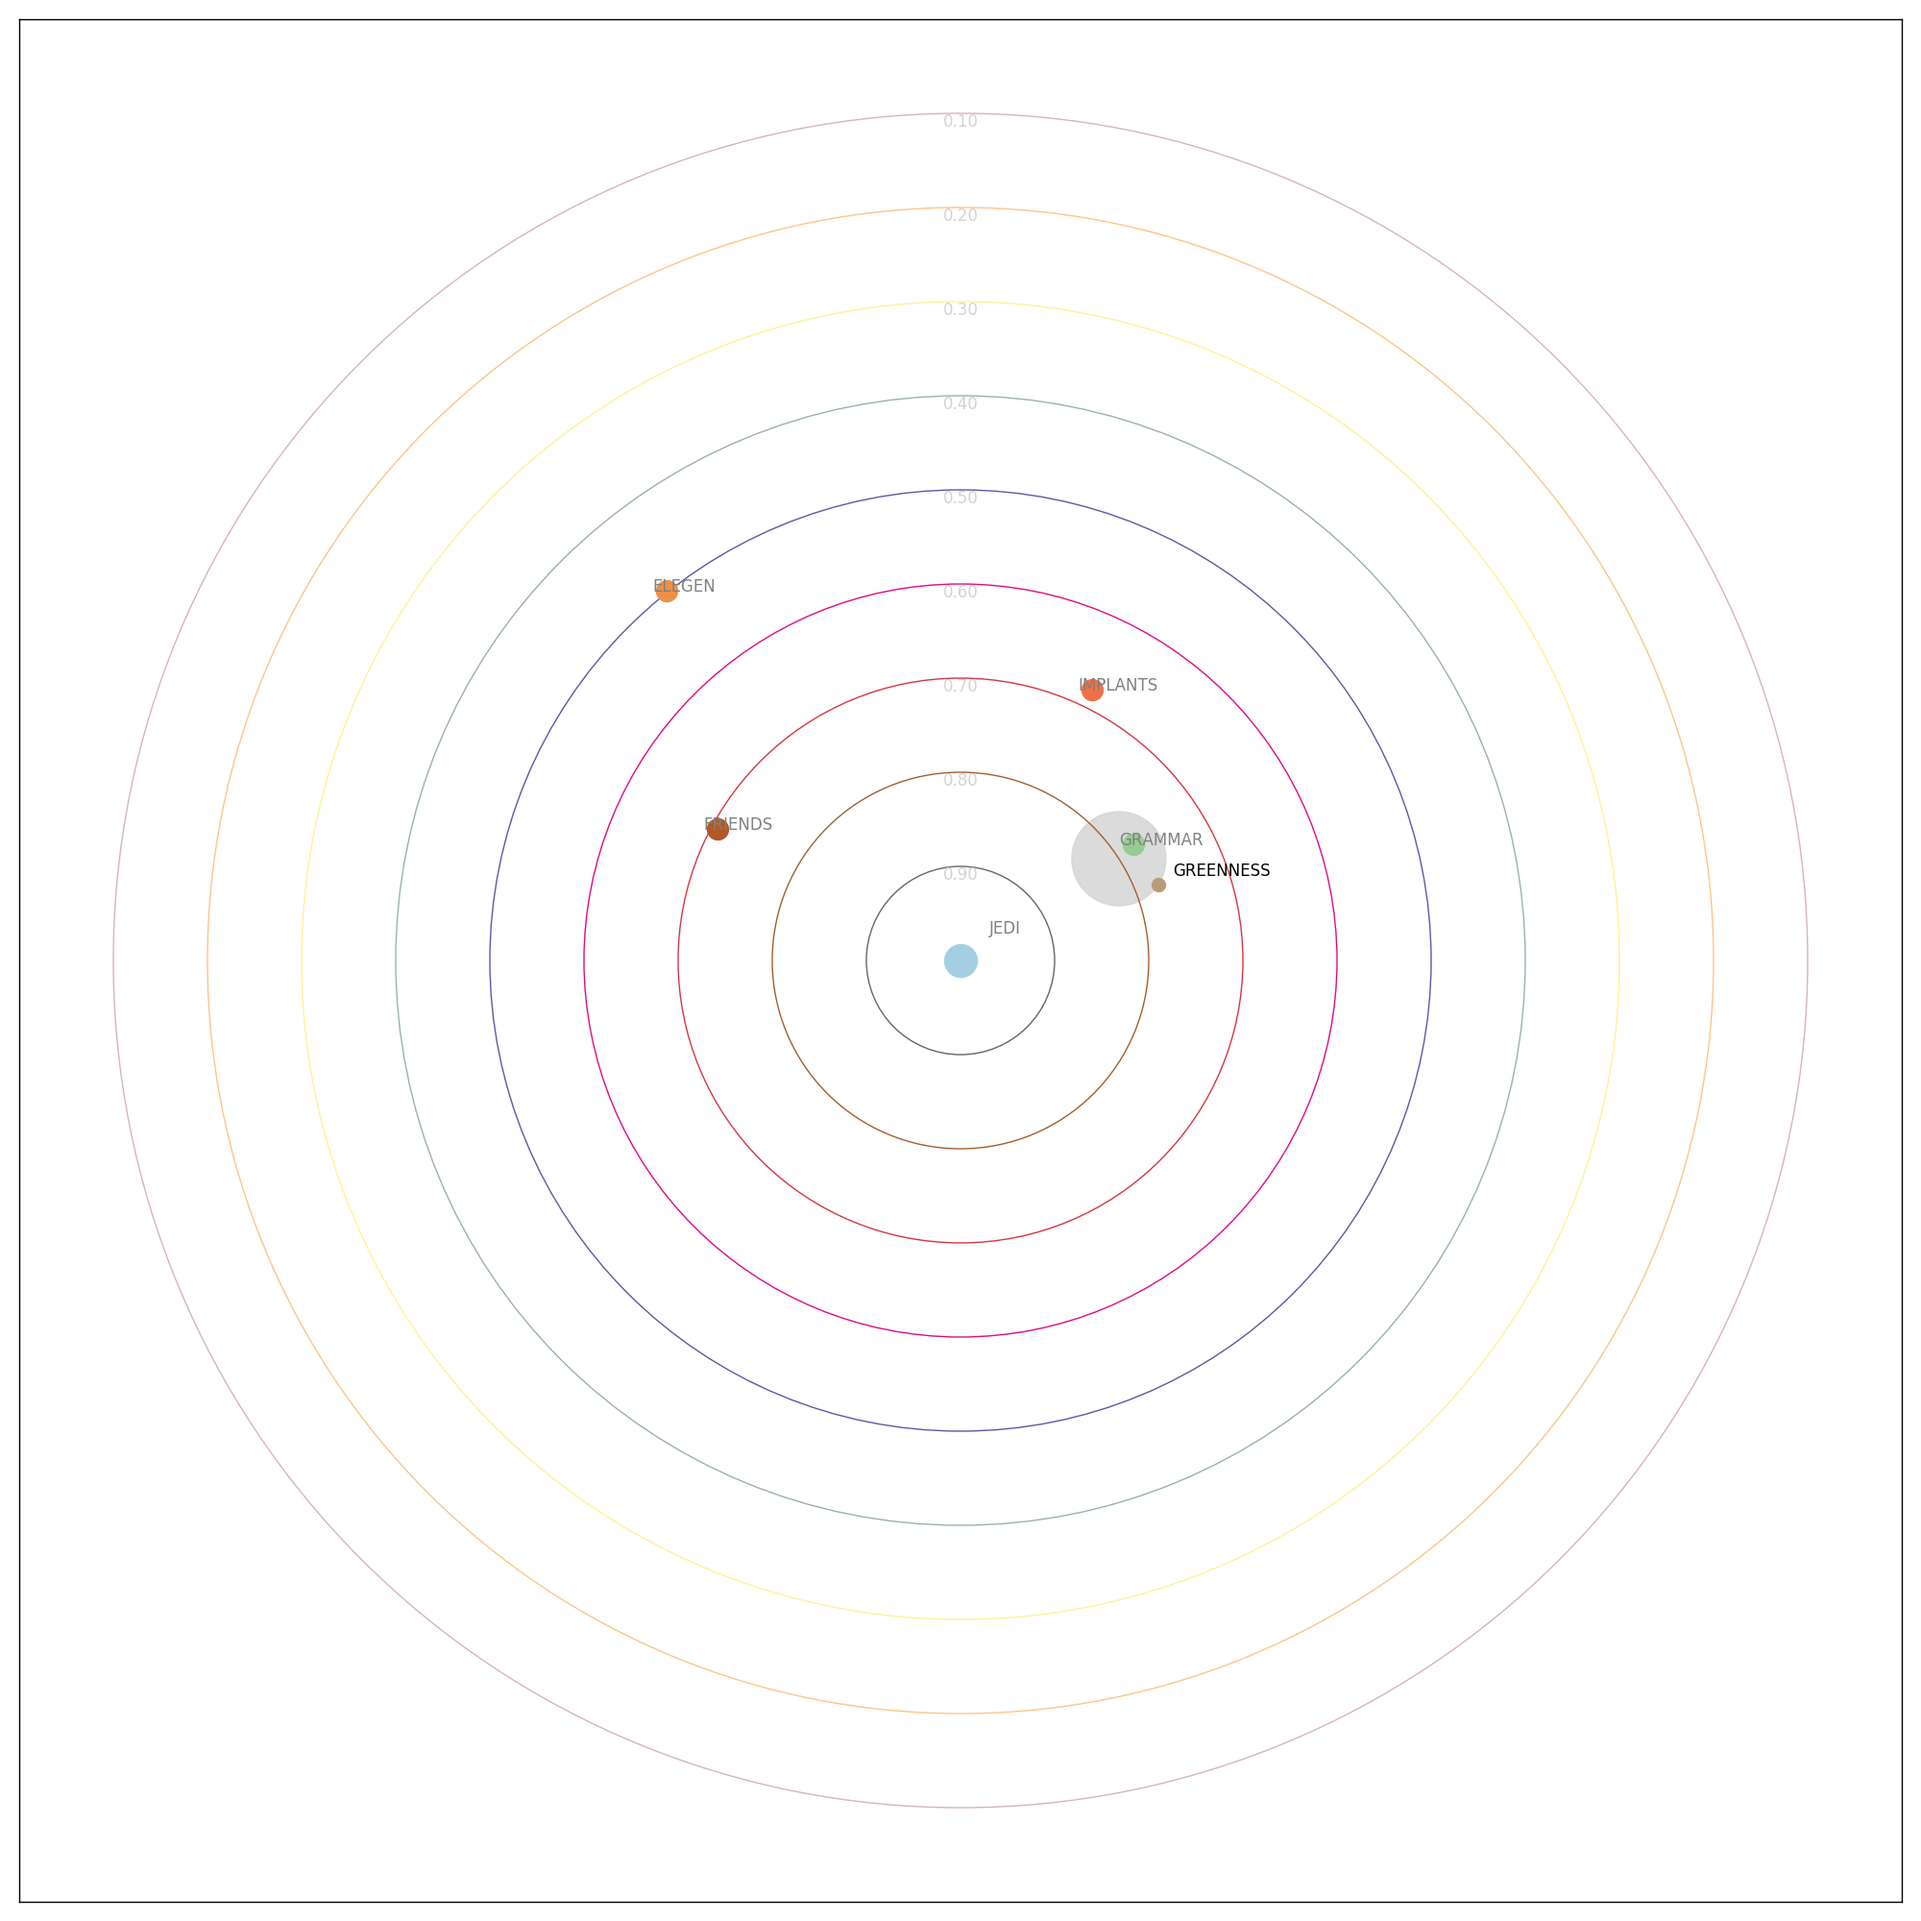
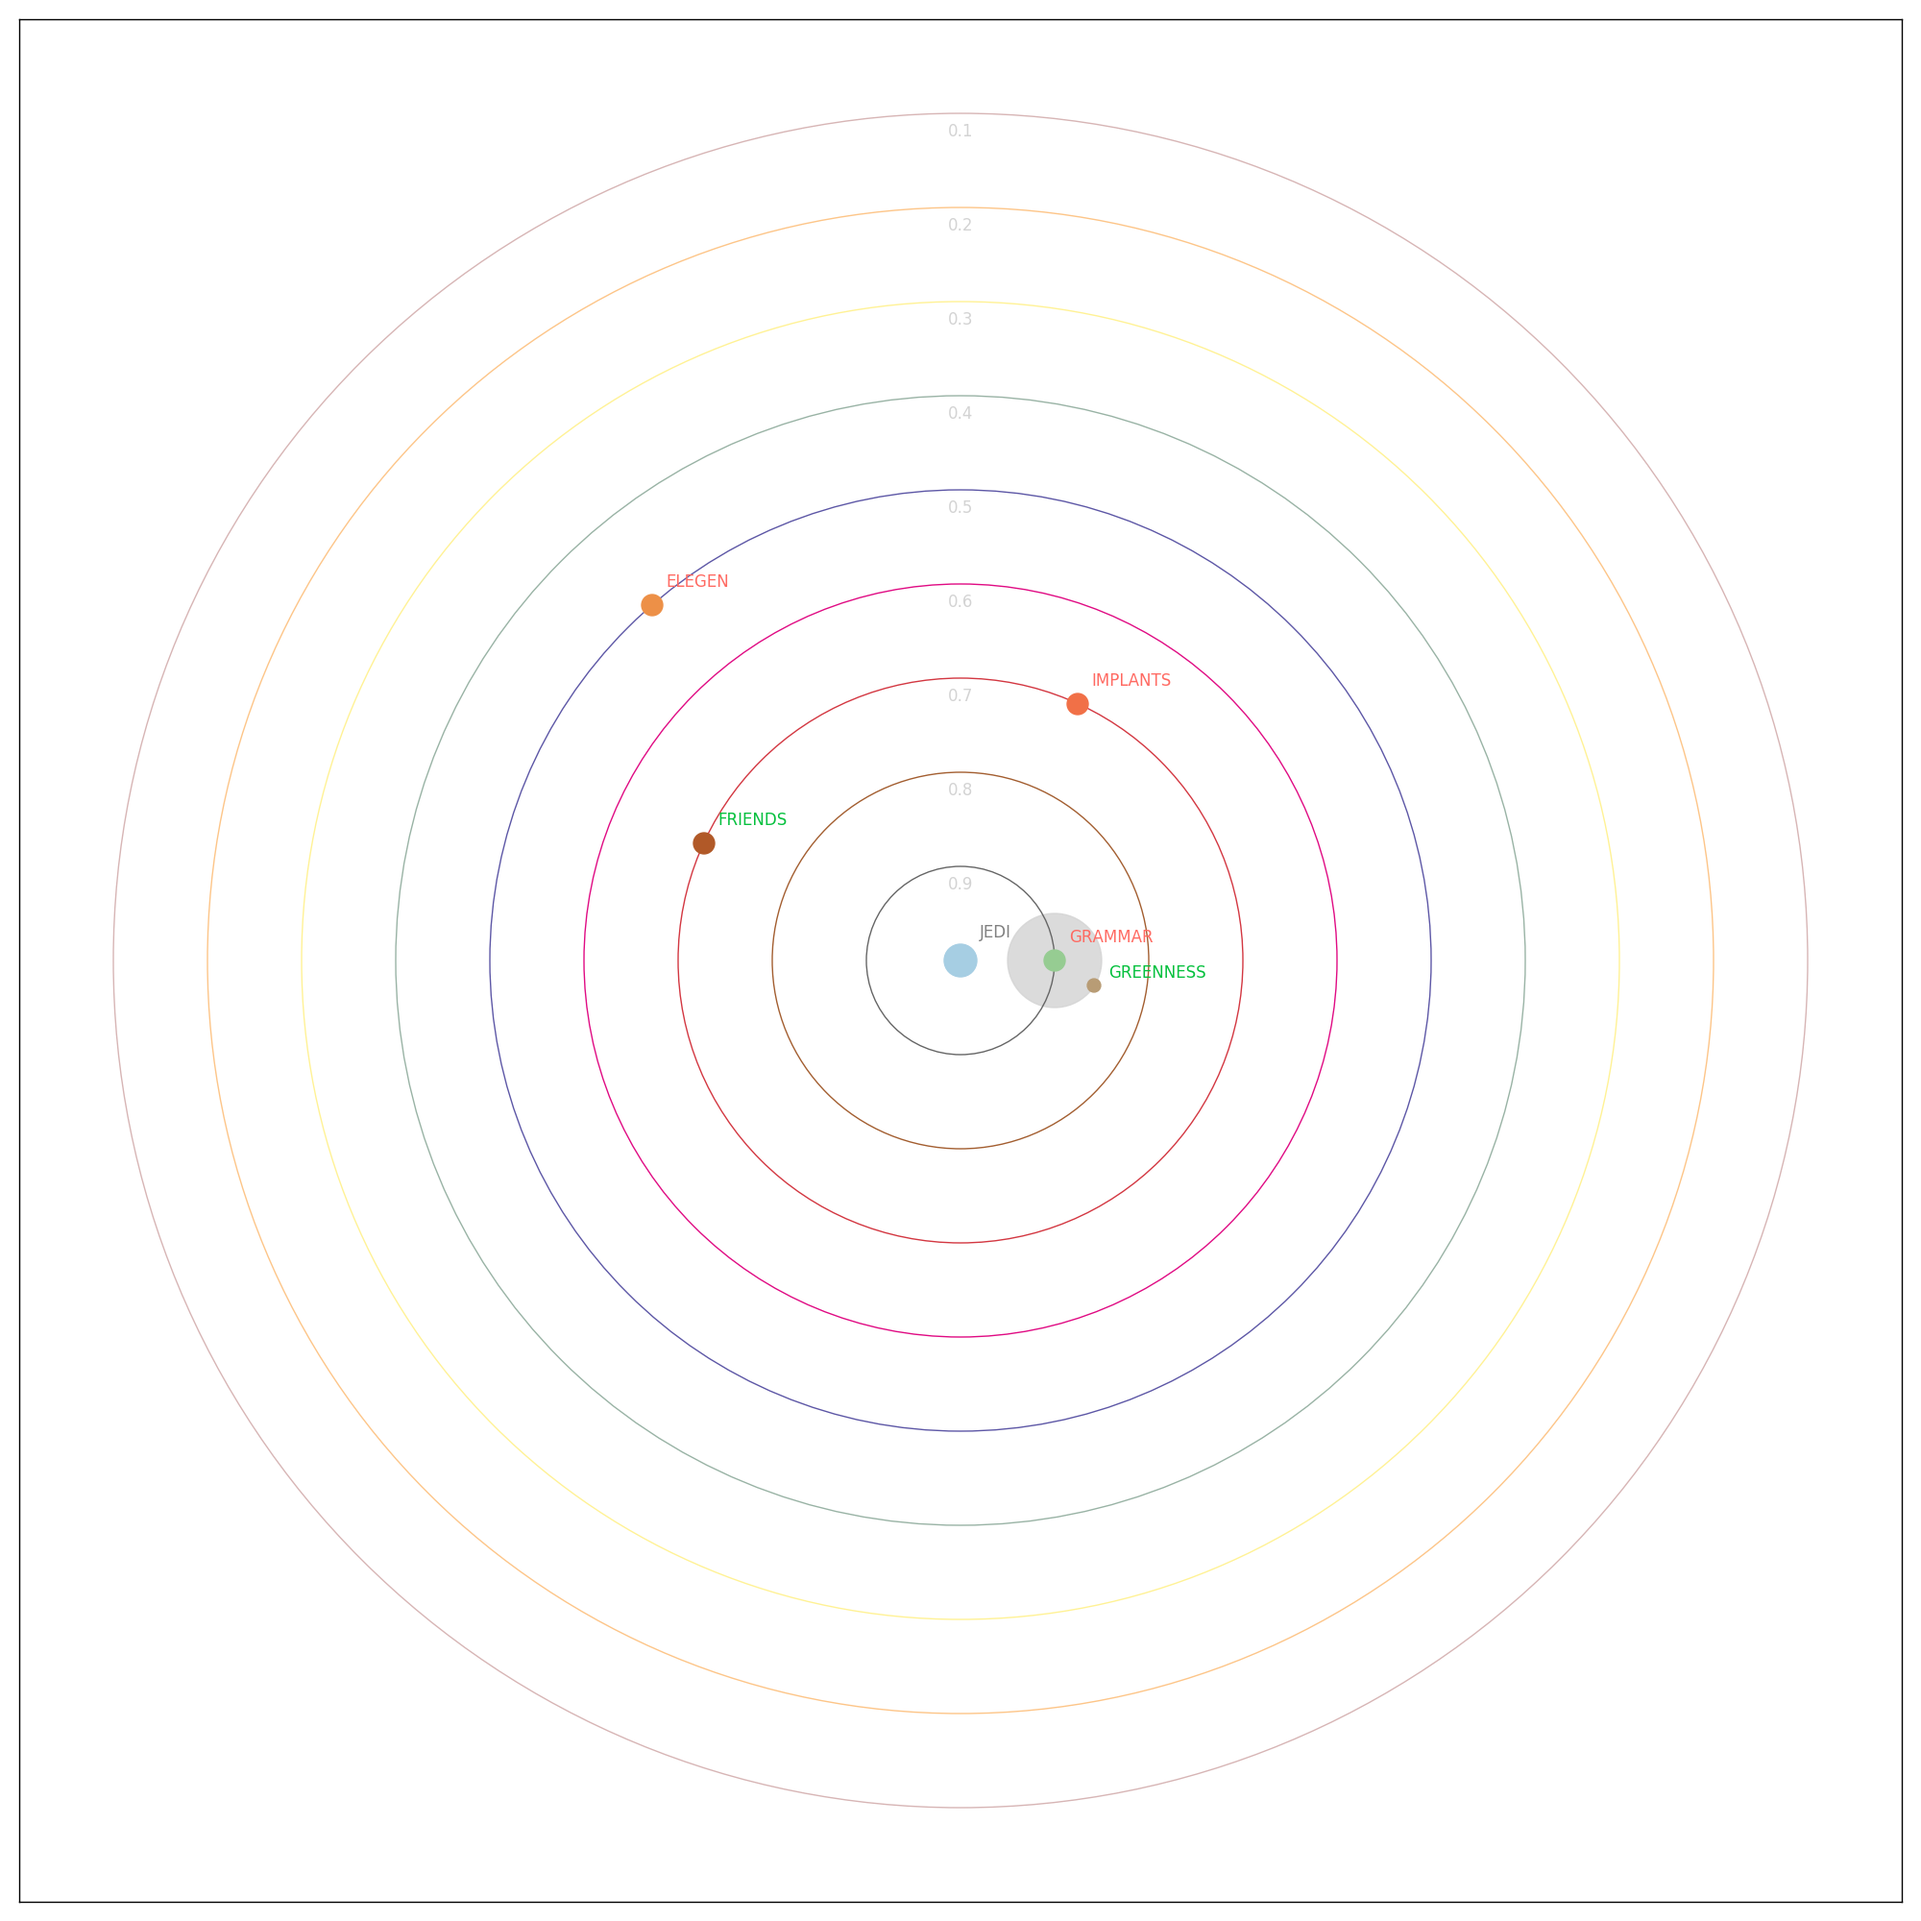
adjusted colors for labels based on correlations

diff --git a/solar_correlation_map/solar_corr.py b/solar_correlation_map/solar_corr.py
@@ -29,12 +29,15 @@ import matplotlib.pyplot as plt
 import numpy as np
 import sys
 import csv
+import warnings
+
+warnings.filterwarnings("ignore", module="matplotlib")
 
 def get_angles(orbit, number_of_datapoints, ax):
     start = (2 * math.pi) / 11 * (orbit - 1)
     stop = start + (math.pi / 2)
     if orbit > 0:
-        ax.text(0, orbit, "{0:.2f}".format(1 - float(orbit) / 10), verticalalignment="top",
+        ax.text(0, orbit - 0.1, "{0:.1f}".format(1 - float(orbit) / 10), verticalalignment="top",
                 horizontalalignment="center", color="lightgray")
     return np.linspace(start, stop, number_of_datapoints, endpoint=True)
 
@@ -57,11 +60,20 @@ def transform_to_correlation_dist(data):
     # we just need the magnitude of the correlation and don't care whether it's positive or not
     return np.abs(y_corr)
 
+
+def transform_to_positive_corrs(data, sun_idx):
+    y_corr = np.corrcoef(data.T)
+    positive = y_corr[sun_idx]
+    positive = positive >= 0
+    return positive
+
+
 def solar_corr(data, labels, center, orbits=10, show_window=True, image_path="solar.png", save_png=True):
     labels = np.array(labels)
     center_idx, center_idx_bool = label_to_idx(labels, center)
 
     all_idx = np.logical_not(center_idx_bool)
+    positive = transform_to_positive_corrs(data, center_idx)
     corr_dist = transform_to_correlation_dist(data)
     sun_corr_dist = corr_dist[center_idx]
     colors = np.linspace(0, 1, num=len(sun_corr_dist))
@@ -82,7 +94,7 @@ def solar_corr(data, labels, center, orbits=10, show_window=True, image_path="so
 
     # place sun:
     plt.scatter(0, 0, color=color_map(colors[center_idx]), s=600, label=labels[center_idx])
-    ax.text(0.3, 0.25, str(labels[center_idx]), verticalalignment="bottom", horizontalalignment='left', color="gray")
+    ax.text(0.2, 0.2, str(labels[center_idx]), verticalalignment="bottom", horizontalalignment='left', color="gray")
 
     for orbit in range(1, orbits):
         new_orbit = step * orbit+0.1
@@ -116,8 +128,9 @@ def solar_corr(data, labels, center, orbits=10, show_window=True, image_path="so
 
             planet_corr = corr_dist[planet_idx]
             #ax.text(x-0.35, y+0.2, "{0:.3f}".format(planet_corr[center_idx]))
+            col = "#03C03C" if positive[planet_idx] else "#FF6961"
             ax.text(x + 0.15, y + 0.15, str(labels[planet_idx]), verticalalignment="bottom", horizontalalignment='left',
-                    color="gray")
+                    color=col)
             moon_idx = (planet_corr >= 0.8) & all_idx
             moon_idx_int = np.where(moon_idx)[0]
             moons = sum(moon_idx)
@@ -138,8 +151,9 @@ def solar_corr(data, labels, center, orbits=10, show_window=True, image_path="so
                 m_y = get_y(angle, moon_orbit) + y
                 color = colors[current_moon_idx]
                 plt.scatter(m_x, m_y, color=color_map(color), s=100, label=labels[current_moon_idx])
+                col = "#03C03C" if positive[current_moon_idx] else "#FF6961"
                 ax.text(m_x + 0.15, m_y + 0.05, str(labels[current_moon_idx]), verticalalignment="bottom",
-                        horizontalalignment='left', color="gray")
+                        horizontalalignment='left', color=col)
                 moon_idx[current_moon_idx] = False
                 idx[current_moon_idx] = False
                 all_idx[current_moon_idx] = False
